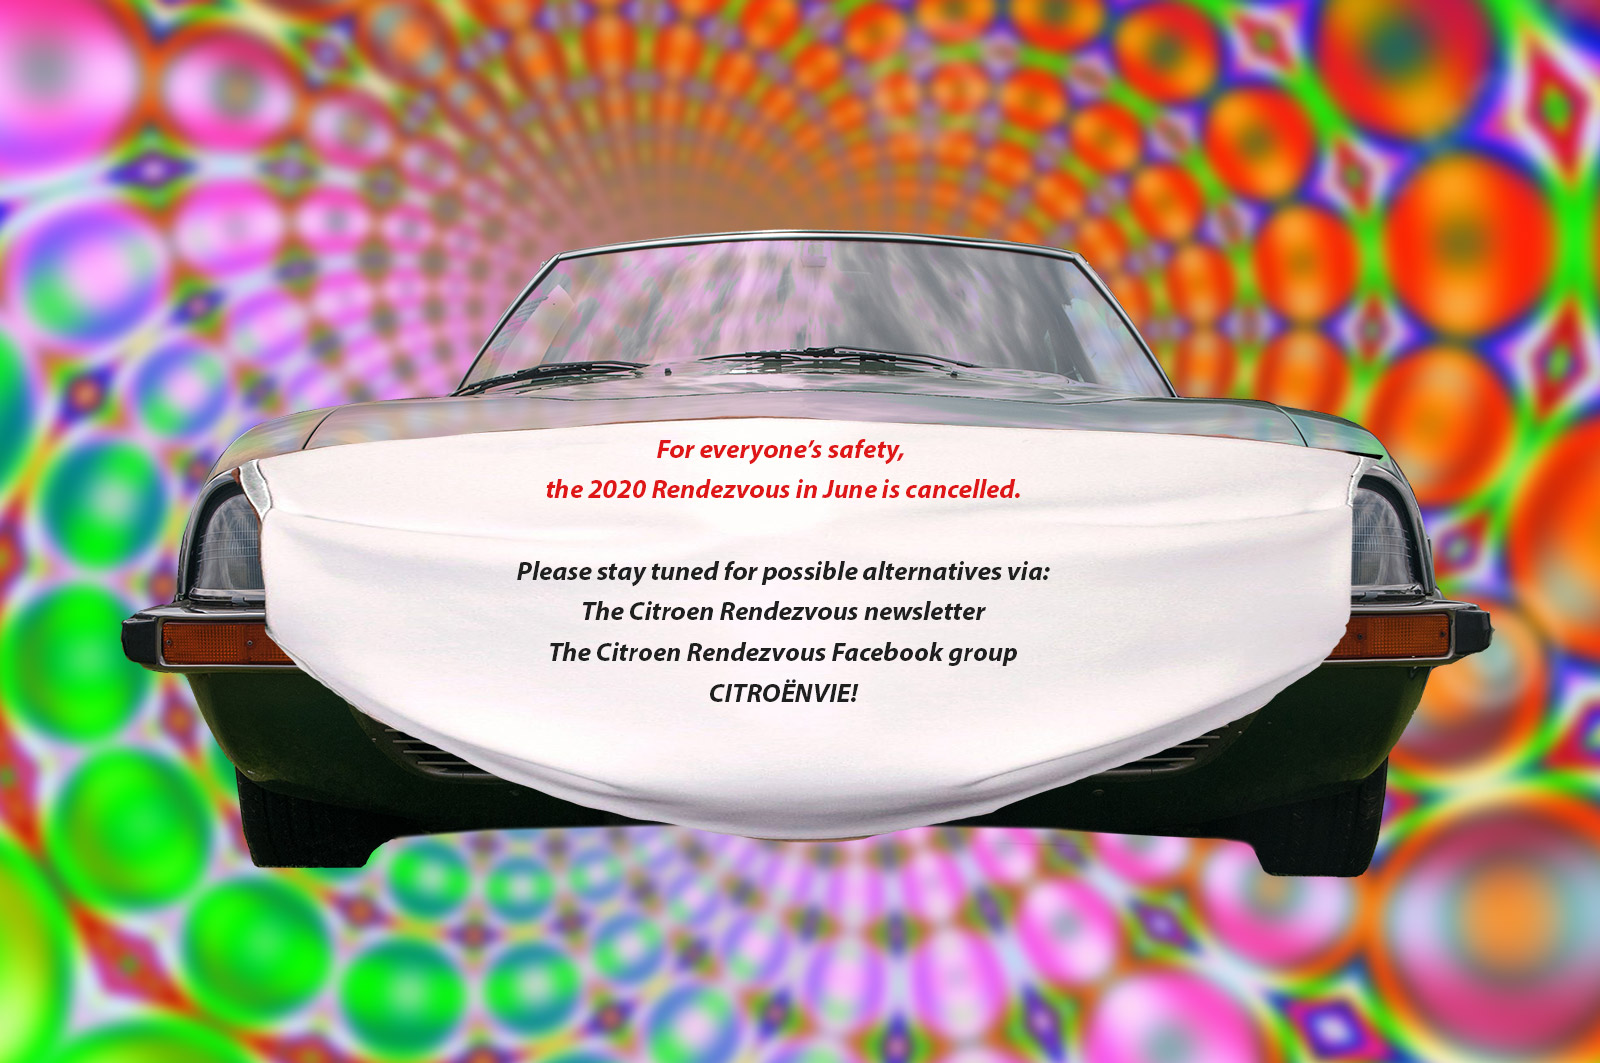
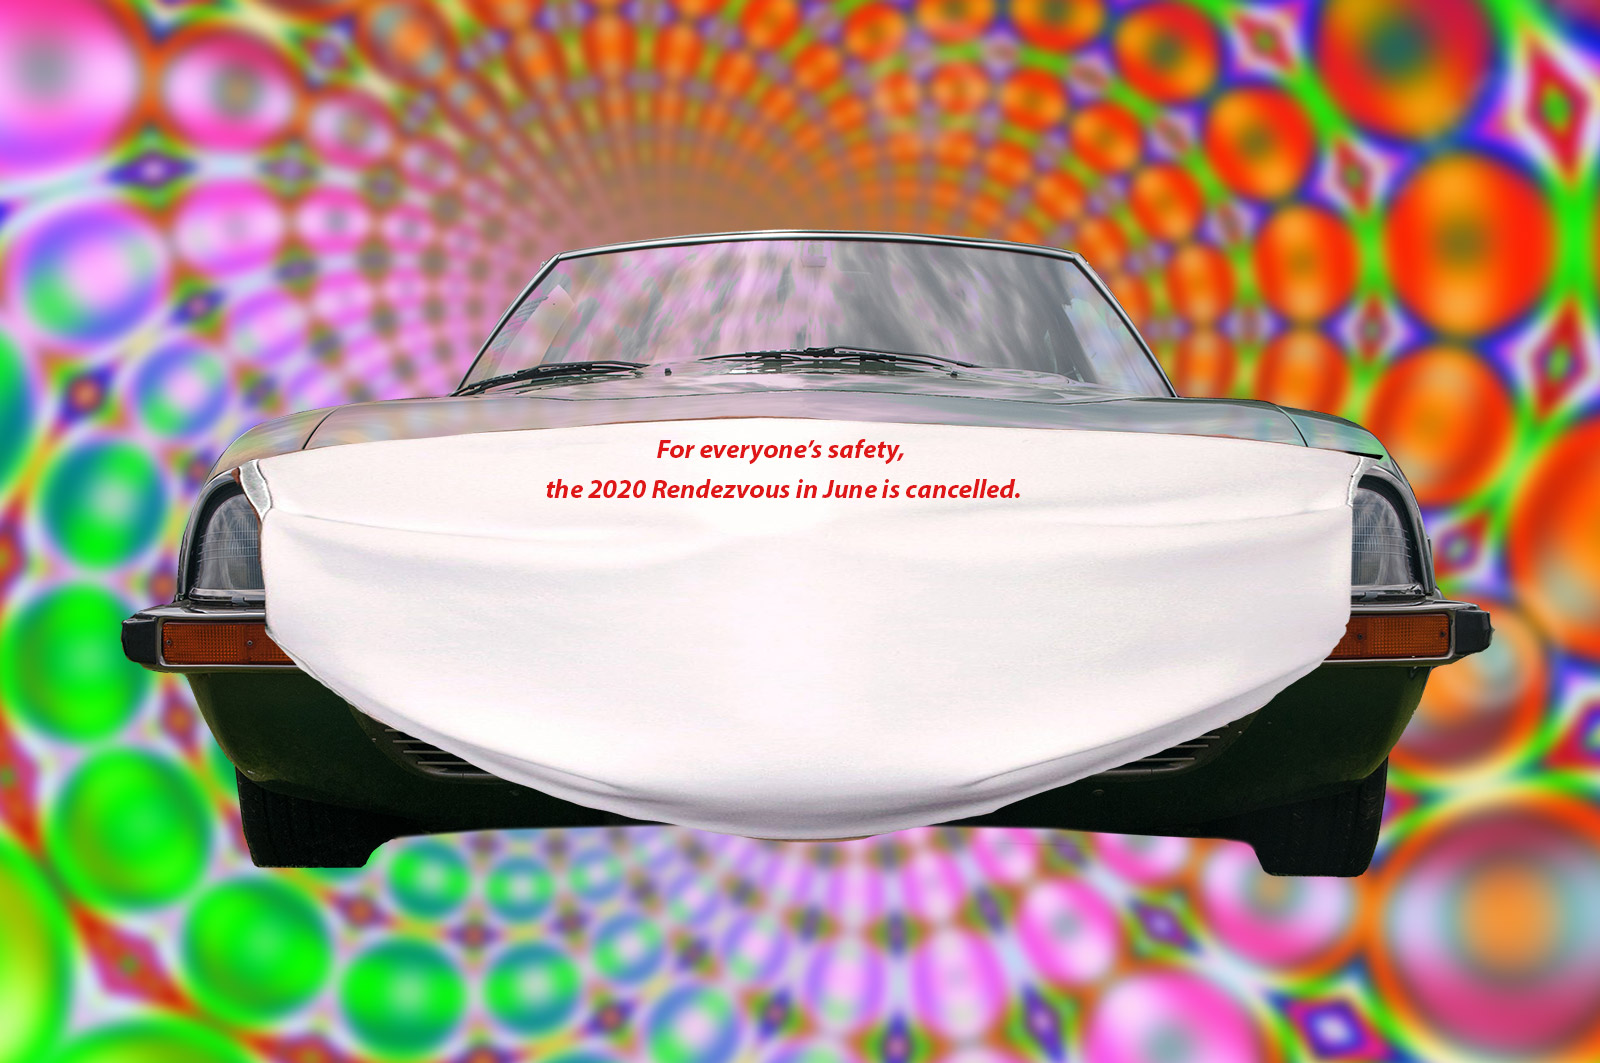
Make clickable links on front page

Changed region(s): [[0.3125, 0.5278, 0.6562, 0.683]]

diff --git a/app/assets/stylesheets/style.scss b/app/assets/stylesheets/style.scss
@@ -380,14 +380,44 @@ ul.nav{
 }
 
 /*banner area*/
-.banner{
-	background: image-url('banner-covid.jpg');
+.banner {
+	background-image: image-url('banner.jpg');
 	background-repeat: no-repeat;
 	background-size: cover;
 	background-position: center;
 	text-shadow: 1px 1px 2px rgba(0,0,0, 0.75);
 	margin-top: 100px;
 }
+
+.banner.special {
+	background-image: image-url('banner-covid.jpg');
+	background-repeat: no-repeat;
+	background-size: cover;
+	background-position: center;	
+	font-weight: bold;
+	font-style: italic;
+	font-size: 1.4em;
+	text-shadow: none;
+	min-height: 600px;
+	p {
+		width: 400px;
+		color: black;
+		position: absolute;
+		top: 300px;
+		left: 50%;
+		margin-left: -200px;
+	}
+	h1 {
+		display: none
+	}
+	h3 {
+		display: none;
+	}
+	p.facebook {
+		visibility: hidden;
+	}
+}
+
 .banner h3{
 	font-size: 30px;
 	color: #fff;
